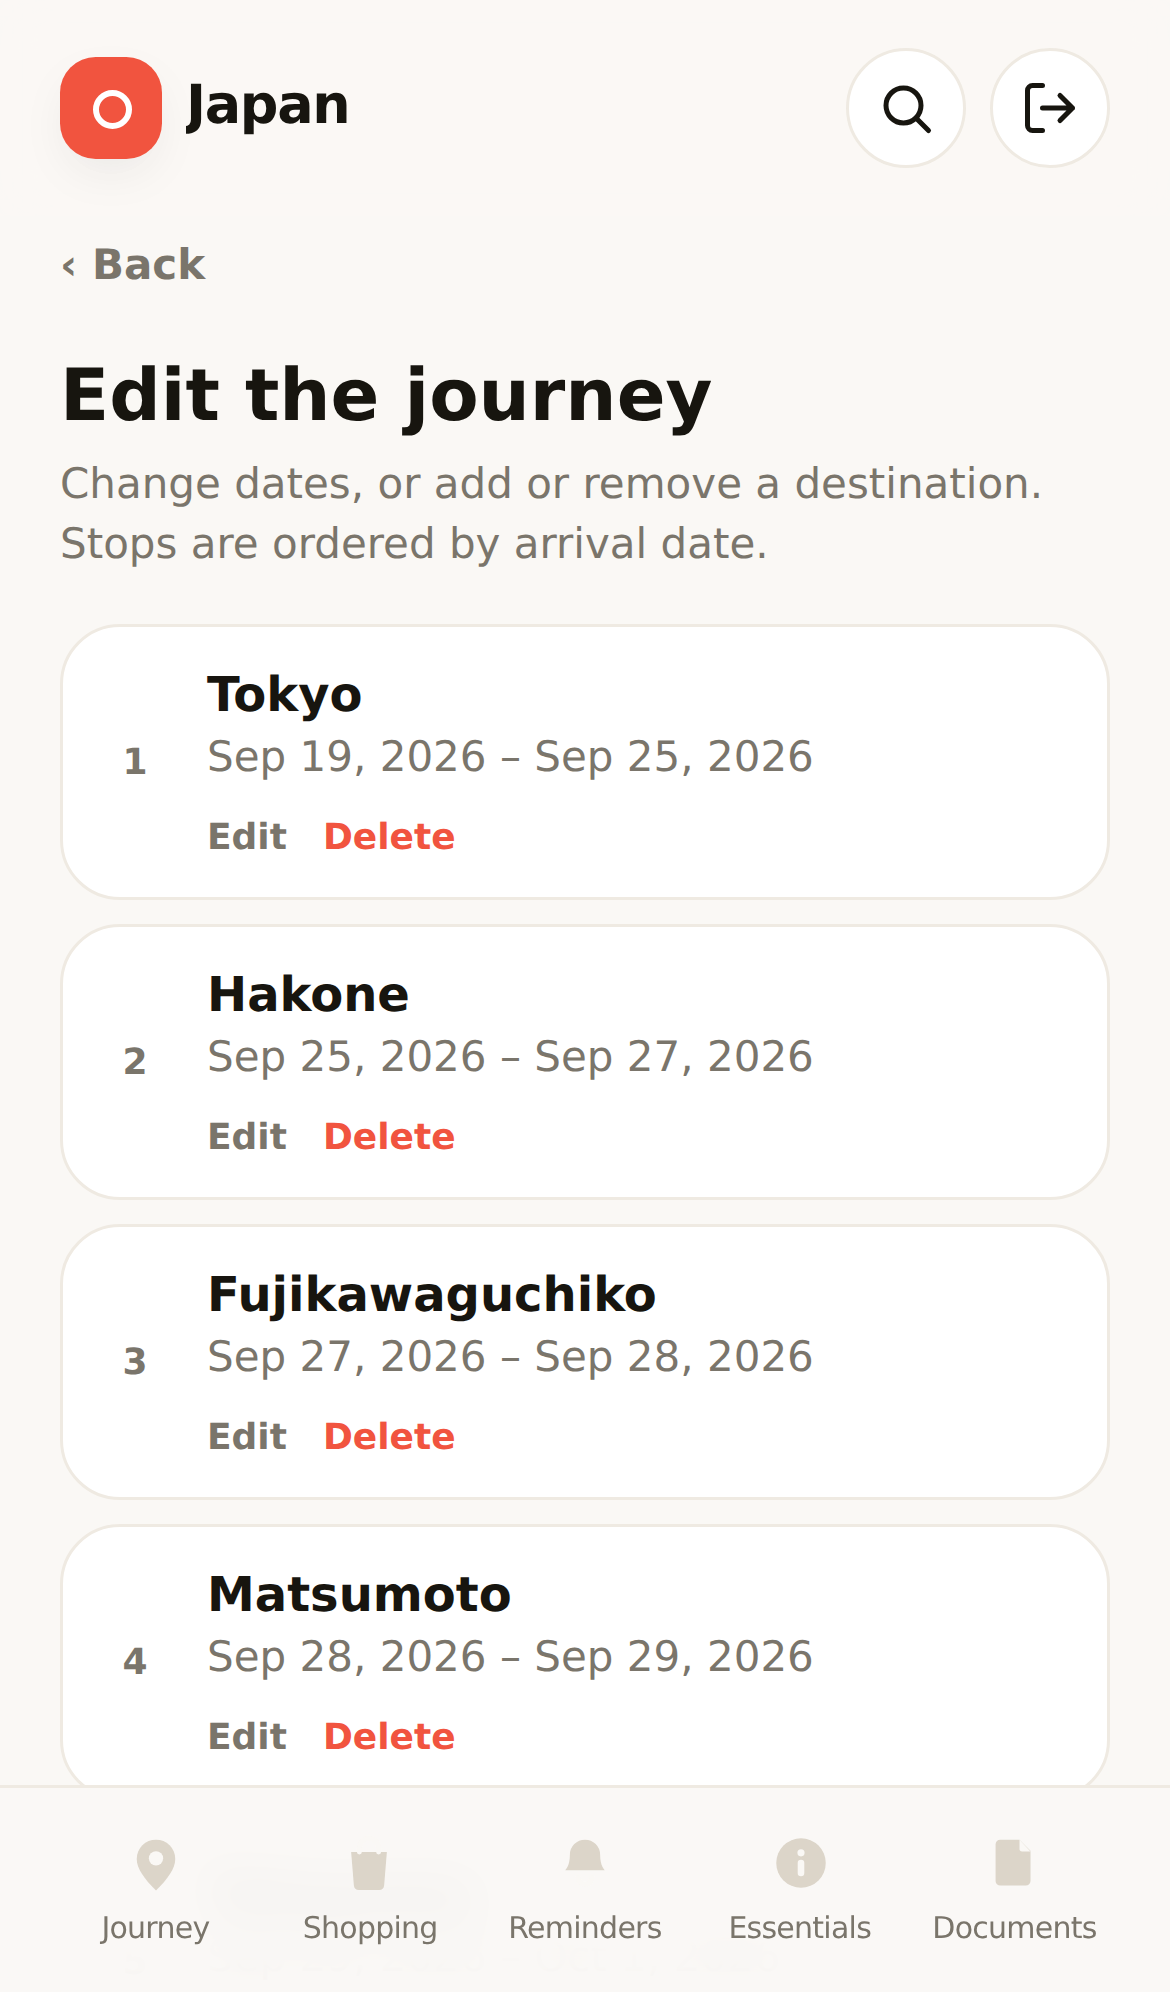
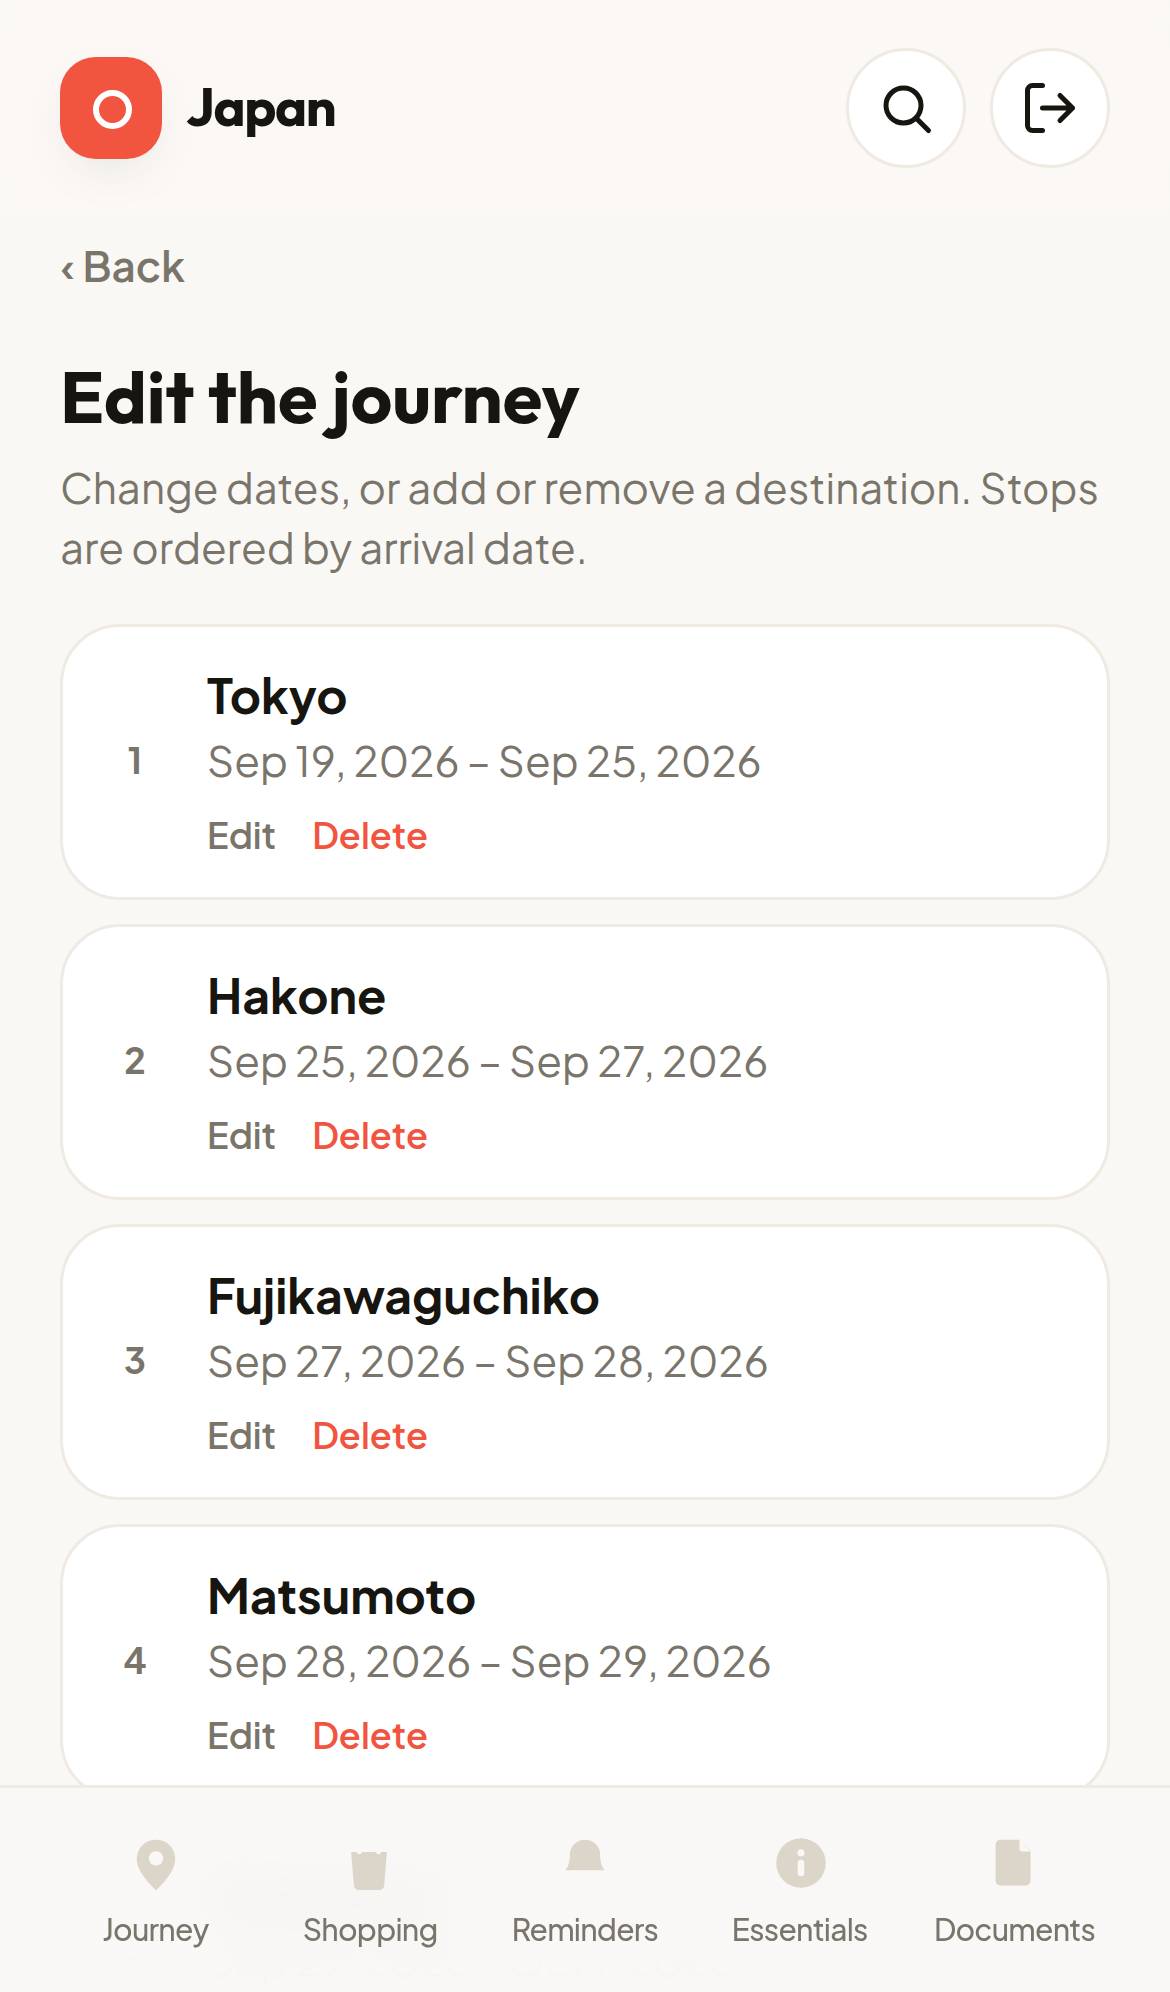
fix(files): open a document again, and keep the real ticket out of the video
**The Documents preview has been broken in production.** `DocumentPreview`
fetched `/api/files/:id/content` — a flat route phase 3a-ii deleted when
every content route moved under `/api/trips/:tripId`. Opening any
document showed "Could not load this document — check your connection
and try again", which is a lie: the connection was fine, the route was
gone. Every other call site had moved; this one was missed.

It survived because `preview.test.tsx` asserted the flat path. The test
was pinning the bug rather than the behaviour, so deleting the route left
a green suite and a broken screen. The assertion now names the
trip-scoped path, and says why.

Found by trying to film it.

Also in the capture rig, none of which ships:

- The documents list carried the travellers' real e-ticket *in its file
  name* — "Flight booking — Ethiopian Airlines (AOXIUF)". The flight
  substitution from the last commit only covered the flight block, not
  the document. The rig now swaps the whole file list for fictional ones,
  including a generated Pacific Air receipt that genuinely opens.
- That receipt is a PNG, not a PDF: the preview renders images inline,
  while a PDF goes to Chromium's own viewer, whose toolbar and zoom
  chrome fill a phone frame with browser furniture instead of a document.
- **The captures were using system fonts.** index.html loads Outfit and
  Plus Jakarta Sans from Google Fonts, which this container cannot reach,
[…]

diff --git a/scripts/demo-server.ts b/scripts/demo-server.ts
@@ -73,6 +73,52 @@ const DEMO_FLIGHT = {
 }
 
 /**
+ * Documents, with the real booking taken out.
+ *
+ * The seed's flight document is the travellers' own e-ticket — filename,
+ * airline and reference included — which is exactly the sort of thing a
+ * product video must not publish. It is replaced by a fictional receipt that
+ * really opens (scripts/make-demo-pdf.mjs generated it), and the two
+ * "(placeholder)" suffixes are dropped, because a video is not the place to
+ * advertise that the fixtures are fixtures.
+ */
+const DEMO_FILES = [
+  {
+    id: 'file-flight',
+    trip_id: 'trip-japan',
+    zone_id: null,
+    place_id: null,
+    display_name: 'Flight booking — Pacific Air (DEMO42)',
+    // An image, not a PDF: the preview renders images inline, while a PDF is
+    // handed to Chromium's own viewer — toolbar, zoom controls and all — which
+    // fills a phone frame with browser chrome instead of a document.
+    storage_path: 'placeholder-files/booking-demo42.png',
+    mime_type: 'image/png',
+    size_bytes: 138405,
+  },
+  {
+    id: 'file-map',
+    trip_id: null,
+    zone_id: 'zone-kyoto',
+    place_id: null,
+    display_name: 'Kyoto walking map',
+    storage_path: 'placeholder-files/kyoto-walking-map.svg',
+    mime_type: 'image/svg+xml',
+    size_bytes: 904,
+  },
+  {
+    id: 'file-hotel',
+    trip_id: null,
+    zone_id: 'zone-hakone',
+    place_id: null,
+    display_name: 'Hakone Yutowa — reservation',
+    storage_path: 'placeholder-files/hotel-reservation.pdf',
+    mime_type: 'application/pdf',
+    size_bytes: 776,
+  },
+]
+
+/**
  * The shipped placeholder trip, plus the two accounts it belongs to. The
  * content is the real thing — that JSON is the seed the live database was
  * built from — so the footage shows the actual app, not a mock of it. Only
@@ -85,6 +131,7 @@ function demoData(): MemoryData {
   return {
     ...data,
     trips: data.trips.map((t) => ({ ...t, flight: DEMO_FLIGHT })),
+    files: DEMO_FILES,
     profiles: [DEMO_USER, PARTNER].map(({ email_confirmed: _c, ...p }) => p),
     members: [
       { trip_id: 'trip-japan', user_id: DEMO_USER.id, role: 'owner', ...full },

diff --git a/src/pages/DocumentPreview.tsx b/src/pages/DocumentPreview.tsx
@@ -48,7 +48,7 @@ type ContentState =
   { status: 'loading' } | { status: 'ready'; url: string } | { status: 'error'; message: string }
 
 /** Fetch the blob once and expose it as an object URL, revoked on unmount. */
-function useFileContent(fileId: string): ContentState {
+function useFileContent(tripId: string, fileId: string): ContentState {
   const [state, setState] = useState<ContentState>({ status: 'loading' })
 
   useEffect(() => {
@@ -57,7 +57,7 @@ function useFileContent(fileId: string): ContentState {
     setState({ status: 'loading' })
 
     api
-      .blob(`/files/${fileId}/content`)
+      .blob(`/trips/${tripId}/files/${fileId}/content`)
       .then((blob) => {
         if (cancelled) return
         objectUrl = URL.createObjectURL(blob)
@@ -78,7 +78,7 @@ function useFileContent(fileId: string): ContentState {
       cancelled = true
       if (objectUrl) URL.revokeObjectURL(objectUrl)
     }
-  }, [fileId])
+  }, [tripId, fileId])
 
   return state
 }
@@ -128,7 +128,7 @@ export default function DocumentPreview() {
   const navigate = useNavigate()
   const tripId = useTripId()
   const { data, isPending, isError, refetch } = useTripFiles(tripId)
-  const content = useFileContent(fileId)
+  const content = useFileContent(tripId, fileId)
 
   if (isPending) return <Loading />
   if (isError) return <ErrorState message="Could not load documents." onRetry={() => refetch()} />

diff --git a/src/tests/preview.test.tsx b/src/tests/preview.test.tsx
@@ -46,7 +46,11 @@ describe('DocumentPreview page', () => {
     renderPreview()
 
     expect(await screen.findByTitle('Flight ticket')).toHaveAttribute('src', 'blob:preview')
-    expect(mocks.blob).toHaveBeenCalledWith('/files/file-1/content')
+    // Trip-scoped, like every other content call. This assertion used to name
+    // the flat path, which is why phase 3a-ii deleting that route left the
+    // preview broken in production with a green suite: the test was pinning
+    // the bug rather than the behaviour.
+    expect(mocks.blob).toHaveBeenCalledWith('/trips/trip-1/files/file-1/content')
     expect(screen.getByRole('link', { name: 'Download' })).toHaveAttribute(
       'download',
       'Flight ticket.pdf'

diff --git a/video/src/onward/script.ts b/video/src/onward/script.ts
@@ -73,9 +73,15 @@ export const SCRIPT: Line[] = [
     text: 'Your bookings and documents stay yours until you say otherwise.',
     screen: 'documents',
     seconds: 45.4,
-    focus: 0,
+    focus: 0.1,
   },
-  { text: 'Onward. Your whole trip, in one place.', screen: null, seconds: 50.4 },
+  {
+    text: 'And every one of them opens without leaving the app.',
+    screen: 'document-open',
+    seconds: 49.6,
+    focus: 0.06,
+  },
+  { text: 'Onward. Your whole trip, in one place.', screen: null, seconds: 53.6 },
 ]
 
 /** How long the closing card holds after its line, in seconds. */
